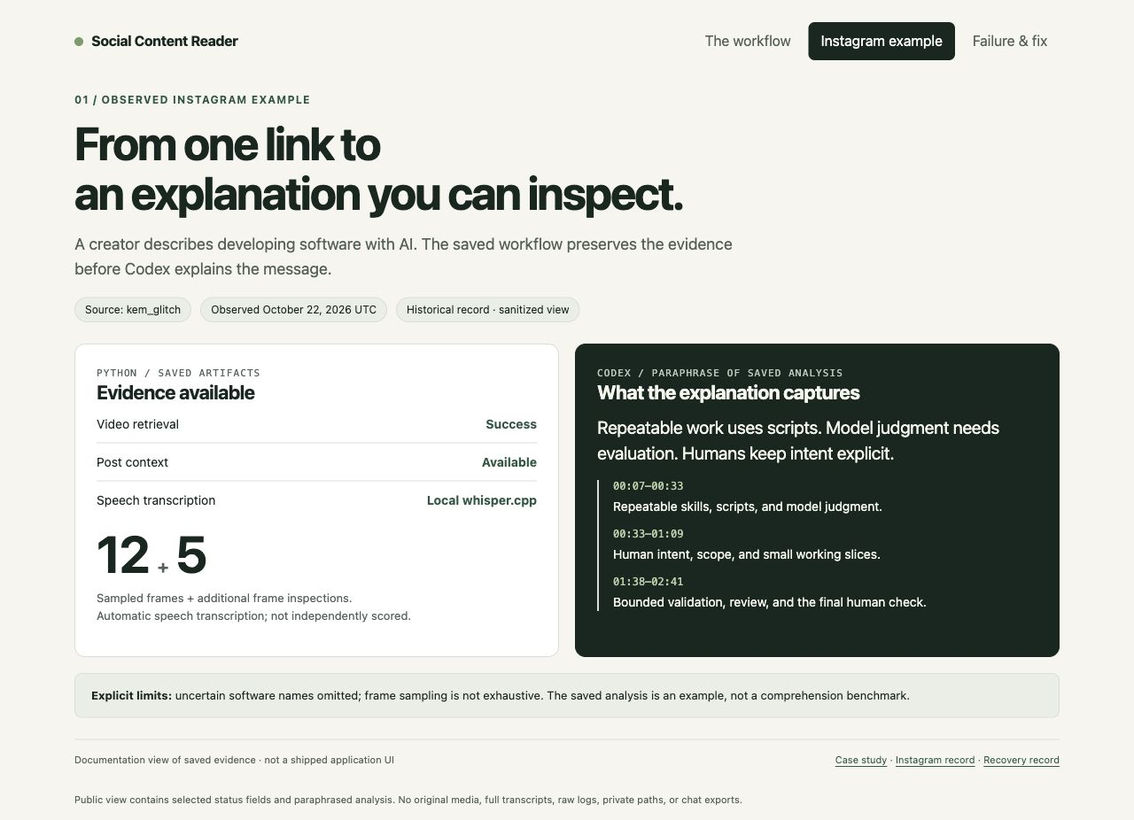
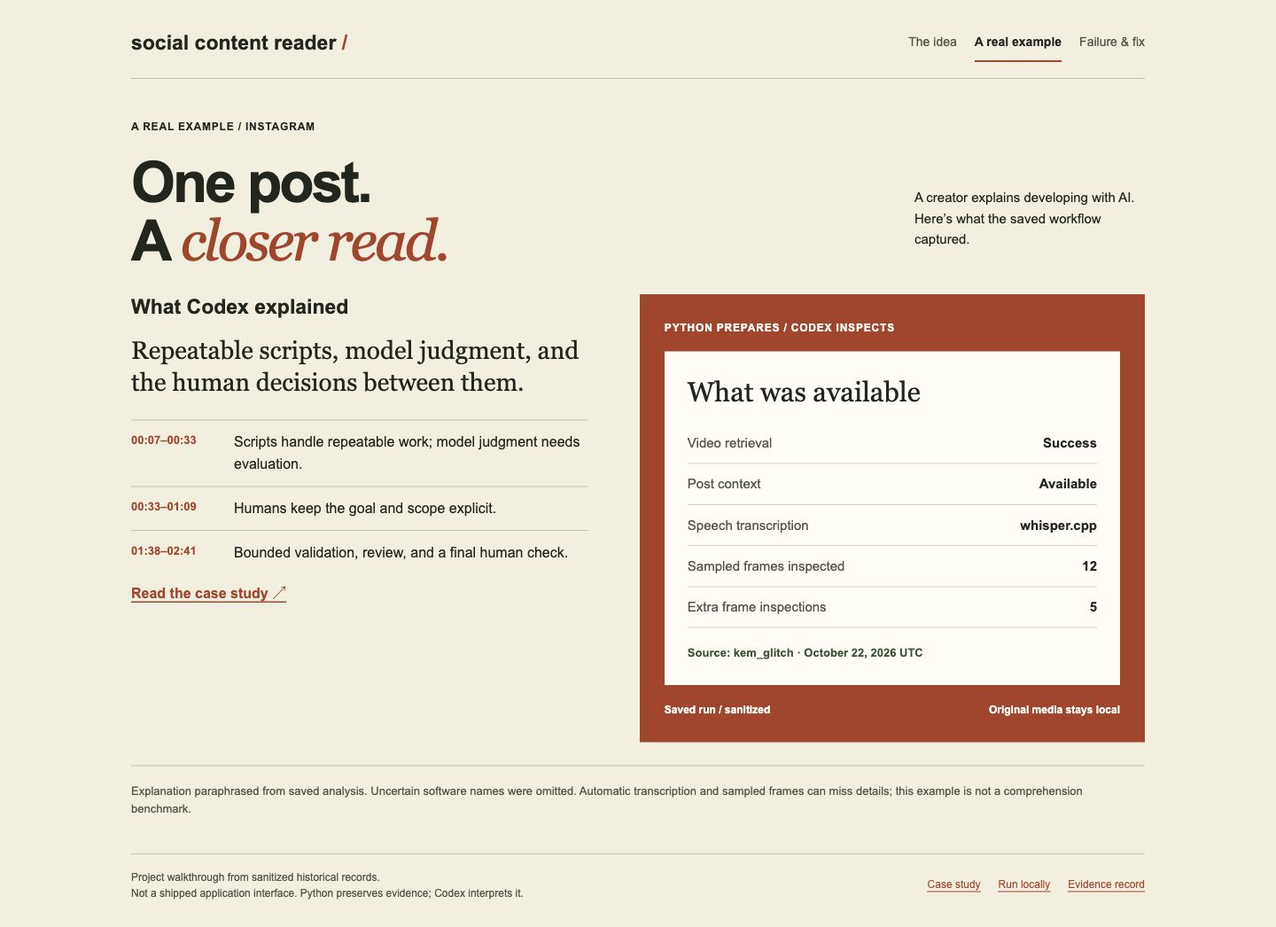
Refine portfolio presentation with Needle-inspired design

diff --git a/docs/walkthrough.html b/docs/walkthrough.html
@@ -3,60 +3,38 @@
 <meta charset="utf-8">
 <meta name="viewport" content="width=device-width,initial-scale=1">
 <meta name="referrer" content="no-referrer">
-<title>Social Content Reader · Evidence walkthrough</title>
+<title>Social Content Reader · A closer read</title>
 <style>
-:root{color-scheme:light;--ink:#172620;--muted:#536159;--paper:#f6f5ef;--green:#285844;--line:#d8dfd5;--pale:#e9eee6;--gold:#fff0ce}
-*{box-sizing:border-box}body{margin:0;background:var(--paper);color:var(--ink);font:16px/1.55 ui-sans-serif,system-ui,-apple-system,BlinkMacSystemFont,"Segoe UI",sans-serif}a{color:var(--green);text-underline-offset:3px}button{font:inherit}header{max-width:1176px;margin:auto;padding:24px 32px 0;display:flex;align-items:center;justify-content:space-between;gap:16px}.brand{font-weight:750;font-size:16px;letter-spacing:-.4px}.dot{display:inline-block;width:10px;height:10px;background:#759c67;border-radius:50%;margin-right:9px}.label{font:11px/1.5 ui-monospace,monospace;text-transform:uppercase;letter-spacing:1.1px;color:var(--muted)}nav{display:flex;gap:6px}nav button{border:1px solid transparent;background:transparent;color:var(--muted);padding:8px 13px;border-radius:7px;cursor:pointer}nav button[aria-selected=true]{background:var(--ink);color:white}button:focus-visible,a:focus-visible{outline:3px solid #ba731e;outline-offset:3px}main{max-width:1176px;margin:auto;padding:35px 32px 28px}.eyebrow{font-size:12px;font-weight:700;letter-spacing:1.2px;text-transform:uppercase;color:var(--green)}h1{font-size:clamp(32px,4.4vw,52px);line-height:1.08;letter-spacing:-2px;margin:12px 0 16px;max-width:850px}h2{font-size:22px;line-height:1.2;letter-spacing:-.6px;margin:0 0 12px}h3{font-size:16px;margin:0 0 8px}p{margin:0 0 12px}.lead{font-size:18px;color:var(--muted);max-width:750px;line-height:1.55}.context{display:flex;gap:10px;flex-wrap:wrap;margin:18px 0 24px}.pill{background:var(--pale);border:1px solid var(--line);border-radius:20px;padding:4px 11px;font-size:12px}.grid{display:grid;grid-template-columns:1fr 1fr;gap:18px}.three{grid-template-columns:repeat(3,1fr)}.card{background:white;border:1px solid var(--line);border-radius:12px;padding:24px;min-width:0}.dark{background:var(--ink);color:#f4f7ed;border-color:var(--ink)}.dark .label,.dark .muted{color:#b8c9bc}.step{display:inline-grid;place-items:center;width:29px;height:29px;border:1px solid var(--line);border-radius:50%;font-size:12px;font-weight:700;margin-bottom:17px}.rows{margin:12px 0 0}.row{display:flex;justify-content:space-between;gap:16px;border-top:1px solid var(--line);padding:10px 0;font-size:14px}.row:first-child{padding-top:0;border:0}.ok{color:#285844;font-weight:700}.muted{color:var(--muted)}.metric{font-size:58px;line-height:1.1;font-weight:650;letter-spacing:-2px;margin:8px 0}.caption{font-size:13px;color:var(--muted)}.note{background:var(--pale);border:1px solid var(--line);border-radius:8px;padding:14px 18px;font-size:13px;margin-top:18px}.warn{background:var(--gold);border-color:#e9d3a5}.quote{font-size:20px;line-height:1.45;letter-spacing:-.25px}.timestamp{font:12px ui-monospace,monospace;display:block;color:var(--green);margin-bottom:5px}.dark .timestamp{color:#b6d2a9}.timeline{margin-top:16px;padding-left:16px;border-left:2px solid var(--line)}.timeline p{font-size:14px;margin:0 0 13px}.code{font:12px/1.7 ui-monospace,monospace;white-space:pre-wrap;overflow-wrap:anywhere;padding:15px;background:#edf0eb;border-radius:7px;margin:12px 0}.dark .code{background:#293b30;color:#dfeddc}footer{display:flex;justify-content:space-between;gap:16px;border-top:1px solid var(--line);margin-top:24px;padding-top:14px;font-size:11px;color:var(--muted)}section[hidden]{display:none}.arrow{font-size:20px;color:var(--muted)}.small{font-size:13px}.screen-note{max-width:1176px;padding:0 32px 16px;margin:auto;font-size:11px;color:var(--muted)}
-@media(max-width:700px){header{padding:18px 20px 0;align-items:flex-start;flex-direction:column}main{padding:24px 20px}.grid,.three{grid-template-columns:1fr}nav{width:100%;justify-content:space-between}nav button{padding:7px 10px;font-size:14px}h1{letter-spacing:-1px}.card{padding:20px}.metric{font-size:46px}footer{flex-direction:column;gap:5px}.screen-note{padding:0 20px 16px}}
+:root{color-scheme:light;--ink:#22251e;--muted:#53564a;--paper:#f3efdf;--green:#ad3f23;--line:#c2bfad;--pale:#e9e2ce;--gold:#f3e2bc;--white:#fffdf4}
+*{box-sizing:border-box}body{margin:0;background:var(--paper);color:var(--ink);font:16px/1.55 Arial,Helvetica,sans-serif}a{color:var(--green);text-underline-offset:4px}a:visited{color:#705239}a:hover{text-decoration-thickness:2px}button{font:inherit;cursor:pointer}button:focus-visible,a:focus-visible{outline:3px solid #7d2b18;outline-offset:5px}::selection{background:var(--green);color:var(--white)}header,main,footer{width:min(1144px,88vw);margin-inline:auto}header{padding:26px 0 18px;border-bottom:1px solid var(--line);display:flex;align-items:center;justify-content:space-between;gap:24px}.brand{font-size:23px;font-weight:800;line-height:1.1}.brand span{color:var(--green)}nav{display:flex;gap:20px}nav button{min-height:44px;padding:6px 0;border:0;border-bottom:2px solid transparent;background:transparent;color:var(--muted);font-size:14px}nav button:hover{color:var(--green)}nav button[aria-selected=true]{border-bottom-color:var(--green);color:var(--ink);font-weight:700}main{padding:44px 0 24px}section[hidden]{display:none}.eyebrow{font-size:12px;letter-spacing:.8px;text-transform:uppercase;font-weight:700;margin:0 0 22px}h1{font-size:clamp(42px,5.6vw,76px);line-height:1.02;letter-spacing:-2.8px;margin:0 0 24px;text-wrap:balance;font-weight:750}h1 em{font-family:Georgia,"Times New Roman",serif;font-weight:400;color:var(--green)}h2{font-size:23px;line-height:1.25;margin:0 0 16px}h3{font-size:18px;margin:0 0 8px}p{margin:0 0 16px}.lead{font-size:19px;max-width:490px;line-height:1.55}.muted{color:var(--muted)}.composition{display:grid;grid-template-columns:1.1fr 1fr;align-items:center;gap:64px}.cta{display:inline-flex;align-items:center;justify-content:space-between;gap:24px;min-height:52px;padding:12px 20px;background:var(--ink);color:var(--paper);border:1px solid var(--ink);font-size:15px;font-weight:700}.cta:hover{background:#434737}.detail{font-size:13px;color:var(--muted);margin-top:14px}.folio{background:var(--green);padding:28px;color:var(--white);min-width:0}.folio .eyebrow{margin-bottom:18px}.receipt{background:var(--white);color:var(--ink);padding:26px}.receipt h2{font-family:Georgia,"Times New Roman",serif;font-size:31px;font-weight:400}.receipt dl{margin:0}.receipt dl>div{display:flex;gap:18px;justify-content:space-between;padding:11px 0;border-bottom:1px solid #d8d2c2;font-size:15px}.receipt dt{color:var(--muted)}.receipt dd{margin:0;text-align:right;font-weight:700}.stamp{margin:18px 0 0;font-size:13px;color:#355233;font-weight:700}.folio-end{display:flex;justify-content:space-between;gap:20px;font-size:12px;font-weight:700;margin-top:18px}.workflow{display:flex;gap:28px;margin-top:42px;padding-top:22px;border-top:1px solid var(--line)}.workflow p{margin:0;flex:1;font-size:15px}.workflow strong{display:block;font-size:16px;margin-bottom:4px}.owner{font-size:12px;color:var(--muted);display:block;margin-top:5px}.screen-title{display:flex;justify-content:space-between;align-items:baseline;gap:24px;margin-bottom:28px}.screen-title h1{font-size:clamp(38px,4.9vw,64px);margin-bottom:0}.screen-title .aside{max-width:260px;font-size:15px}.inspection{display:grid;grid-template-columns:.95fr 1.05fr;gap:58px;align-items:start}.insight{font-family:Georgia,"Times New Roman",serif;font-size:28px;line-height:1.3;margin-bottom:24px}.timeline{list-style:none;padding:0;margin:0}.timeline li{display:grid;grid-template-columns:102px 1fr;gap:14px;padding:12px 0;border-top:1px solid var(--line)}.timeline time{font-size:13px;font-variant-numeric:tabular-nums;color:var(--green);font-weight:700}.timeline p{font-size:16px;margin:0}.footnote{border-top:1px solid var(--line);padding-top:18px;margin-top:26px;font-size:13px;color:var(--muted)}.recovery{display:grid;grid-template-columns:1fr 1.3fr;gap:52px;align-items:start}.failure{border-top:2px solid var(--green);padding-top:16px}.status-code{font-family:Georgia,"Times New Roman",serif;font-size:56px;line-height:1;margin:8px 0 16px;color:var(--green)}.recovery .folio{margin-top:24px}.decision{font-family:Georgia,"Times New Roman",serif;font-size:29px;line-height:1.3}.decision-details{display:grid;grid-template-columns:1fr 1fr;gap:28px;border-top:1px solid var(--line);padding-top:20px;margin-top:26px}.decision-details p{font-size:15px}.nextlink{display:inline-block;min-height:44px;padding:9px 0;font-weight:700}footer{border-top:1px solid var(--line);padding:16px 0 22px;display:flex;justify-content:space-between;gap:24px;font-size:12px;color:var(--muted)}footer p{margin:0;max-width:600px}footer a{display:inline-block;min-height:44px;padding:8px 0}.footlinks{display:flex;gap:20px;flex-wrap:wrap}body{padding-bottom:env(safe-area-inset-bottom)}
+@media(max-width:850px){.composition,.inspection,.recovery{gap:32px}.screen-title{align-items:start;flex-direction:column;gap:14px}.screen-title .aside{max-width:500px}.brand{font-size:20px}nav{gap:14px}}
+@media(max-width:650px){header{align-items:start;flex-direction:column;gap:16px;padding-top:22px}.brand{font-size:24px}nav{width:100%;justify-content:space-between;gap:8px}nav button{font-size:13px}.composition,.inspection,.recovery{grid-template-columns:1fr;gap:30px}main{padding-top:30px}h1{font-size:49px;letter-spacing:-1.8px}.lead{font-size:18px}.eyebrow{margin-bottom:18px}.folio{padding:22px}.receipt{padding:22px}.workflow{display:block;margin-top:30px;padding-top:0}.workflow p{padding:18px 0;border-bottom:1px solid var(--line);font-size:16px}.workflow strong{display:inline;margin-right:8px}.owner{margin-top:7px}.screen-title h1{font-size:46px;letter-spacing:-1.6px}.timeline li{grid-template-columns:91px 1fr;gap:10px}.timeline time{font-size:12px}.decision{font-size:27px}.decision-details{grid-template-columns:1fr;gap:8px}.recovery .folio{margin-top:20px}.insight{font-size:27px}footer{flex-direction:column;gap:8px}.screen-title .aside{font-size:16px}.receipt dl>div{font-size:14px}.footnote{font-size:14px}.receipt h2{font-size:29px}}
+@media(prefers-reduced-motion:no-preference){.folio{animation:arrive .4s ease-out}@keyframes arrive{from{transform:translateY(7px);opacity:.8}to{transform:translateY(0);opacity:1}}}
 </style>
-<header><div class="brand"><span class="dot"></span>Social Content Reader</div><nav role="tablist" aria-label="Walkthrough views"><button id="tab-overview" role="tab" aria-controls="overview" aria-selected="true">The workflow</button><button id="tab-instagram" role="tab" aria-controls="instagram" aria-selected="false">Instagram example</button><button id="tab-youtube" role="tab" aria-controls="youtube" aria-selected="false">Failure &amp; fix</button></nav></header>
+<header><div class="brand">social content reader<span aria-hidden="true"> /</span></div><nav role="tablist" aria-label="Project walkthrough"><button id="tab-overview" role="tab" aria-controls="overview" aria-selected="true">The idea</button><button id="tab-instagram" role="tab" aria-controls="instagram" aria-selected="false" tabindex="-1">A real example</button><button id="tab-youtube" role="tab" aria-controls="youtube" aria-selected="false" tabindex="-1">Failure &amp; fix</button></nav></header>
 <main>
 <section id="overview" role="tabpanel" aria-labelledby="tab-overview">
-<div class="eyebrow">Personal project / evidence-first explanations</div>
-<h1>A useful explanation starts<br>with inspectable evidence.</h1>
-<p class="lead">Python gathers and preserves the source material. Codex reads it, inspects the visuals, and explains what it can actually support.</p>
-<div class="context"><span class="pill">Local CLI + agent workflow</span><span class="pill">Existing runs · October 2026</span><span class="pill">No hosted service</span></div>
-<div class="grid three">
-<article class="card"><span class="step">01</span><h2>Collect</h2><p class="muted">Retrieve accessible media and context. Extract frames and audio; use subtitles or local ASR.</p><div class="label">Python + media tools</div></article>
-<article class="card"><span class="step">02</span><h2>Preserve</h2><p class="muted">Save statuses, timestamps, and artifact hashes. Reuse cached evidence and retain prior attempts.</p><div class="label">Python + local cache</div></article>
-<article class="card dark"><span class="step">03</span><h2>Interpret</h2><p class="muted">Read speech and post text. Inspect visuals. Explain the content and identify uncertainty.</p><div class="label">Codex + host tools</div></article>
-</div>
-<div class="note"><strong>The boundary matters.</strong> A successful download is not proof of understanding. The Python helper does not summarize posts or perform visual understanding.</div>
+<div class="composition"><div><p class="eyebrow">A closer read of social media</p><h1>Read the post.<br>Check the <em>evidence.</em></h1><p class="lead">A social link, the source material, and an explanation you can check against it.</p><button class="cta" data-view="instagram">See one real example <span aria-hidden="true">↗</span></button><p class="detail">Personal project · Python + Codex · Runs locally</p></div>
+<aside class="folio" aria-label="Selected fields from the saved Instagram example"><p class="eyebrow">Inside one saved run</p><div class="receipt"><h2>Evidence, before explanation.</h2><dl><div><dt>Source</dt><dd>Instagram / kem_glitch</dd></div><div><dt>Video + post context</dt><dd>Available</dd></div><div><dt>Speech</dt><dd>Local transcription</dd></div><div><dt>Visual inspection</dt><dd>12 frames + 5 extra</dd></div></dl><p class="stamp">Codex inspection and explanation recorded.</p></div><div class="folio-end"><span>Selected evidence fields</span><span>October 2026</span></div></aside></div>
+<div class="workflow"><p><strong>Collect.</strong> Python retrieves accessible media, speech, and context.<span class="owner">PYTHON + MEDIA TOOLS</span></p><p><strong>Preserve.</strong> Save timestamped artifacts, statuses, and hashes.<span class="owner">PYTHON + LOCAL CACHE</span></p><p><strong>Interpret.</strong> Codex reads, inspects, and explains what it can support.<span class="owner">CODEX + HOST TOOLS</span></p></div>
 </section>
 <section id="instagram" role="tabpanel" aria-labelledby="tab-instagram" hidden>
-<div class="eyebrow">01 / Observed Instagram example</div>
-<h1>From one link to<br>an explanation you can inspect.</h1>
-<p class="lead">A creator describes developing software with AI. The saved workflow preserves the evidence before Codex explains the message.</p>
-<div class="context"><span class="pill">Source: kem_glitch</span><span class="pill">Observed October 22, 2026 UTC</span><span class="pill">Historical record · sanitized view</span></div>
-<div class="grid">
-<article class="card"><div class="label">Python / saved artifacts</div><h2>Evidence available</h2><div class="rows"><div class="row"><span>Video retrieval</span><span class="ok">Success</span></div><div class="row"><span>Post context</span><span class="ok">Available</span></div><div class="row"><span>Speech transcription</span><span class="ok">Local whisper.cpp</span></div></div><div class="metric">12 <span class="arrow">+</span> 5</div><p class="caption">Sampled frames + additional frame inspections.<br>Automatic speech transcription; not independently scored.</p></article>
-<article class="card dark"><div class="label">Codex / paraphrase of saved analysis</div><h2>What the explanation captures</h2><p class="quote">Repeatable work uses scripts. Model judgment needs evaluation. Humans keep intent explicit.</p><div class="timeline"><p><span class="timestamp">00:07–00:33</span>Repeatable skills, scripts, and model judgment.</p><p><span class="timestamp">00:33–01:09</span>Human intent, scope, and small working slices.</p><p><span class="timestamp">01:38–02:41</span>Bounded validation, review, and the final human check.</p></div></article>
-</div>
-<div class="note"><strong>Explicit limits:</strong> uncertain software names omitted; frame sampling is not exhaustive. The saved analysis is an example, not a comprehension benchmark.</div>
+<p class="eyebrow">A real example / Instagram</p><div class="screen-title"><h1>One post.<br>A <em>closer read.</em></h1><p class="aside">A creator explains developing with AI. Here’s what the saved workflow captured.</p></div>
+<div class="inspection"><div><h2>What Codex explained</h2><p class="insight">Repeatable scripts, model judgment, and the human decisions between them.</p><ol class="timeline"><li><time>00:07–00:33</time><p>Scripts handle repeatable work; model judgment needs evaluation.</p></li><li><time>00:33–01:09</time><p>Humans keep the goal and scope explicit.</p></li><li><time>01:38–02:41</time><p>Bounded validation, review, and a final human check.</p></li></ol><a class="nextlink" href="case-study.md#instagram-demonstration">Read the case study ↗</a></div>
+<aside class="folio"><p class="eyebrow">Python prepares / Codex inspects</p><div class="receipt"><h2>What was available</h2><dl><div><dt>Video retrieval</dt><dd>Success</dd></div><div><dt>Post context</dt><dd>Available</dd></div><div><dt>Speech transcription</dt><dd>whisper.cpp</dd></div><div><dt>Sampled frames inspected</dt><dd>12</dd></div><div><dt>Extra frame inspections</dt><dd>5</dd></div></dl><p class="stamp">Source: kem_glitch · October 22, 2026 UTC</p></div><div class="folio-end"><span>Saved run / sanitized</span><span>Original media stays local</span></div></aside></div>
+<p class="footnote">Explanation paraphrased from saved analysis. Uncertain software names were omitted. Automatic transcription and sampled frames can miss details; this example is not a comprehension benchmark.</p>
 </section>
 <section id="youtube" role="tabpanel" aria-labelledby="tab-youtube" hidden>
-<div class="eyebrow">02 / Engineering judgment</div>
-<h1>Keep useful evidence.<br>Keep the failure visible.</h1>
-<p class="lead">A subtitle request failed with HTTP 429. The response was a bounded collector change, followed by a documented live retry.</p>
-<div class="context"><span class="pill">Source: jawed · Me at the zoo</span><span class="pill">Historical before / after</span><span class="pill">One recovery example</span></div>
-<div class="grid three">
-<article class="card"><div class="label">Before / recorded attempt</div><h2>Subtitle failure</h2><div class="code">HTTP 429
-Retrieval: failed
-Local frames: 0</div><p class="small muted">Some captions and browser visuals were accessible. No local video or sampled frames from this attempt.</p></article>
-<article class="card"><div class="label">Decision / collector + reader</div><h2>Preserve partial work</h2><p class="small muted">Continue downloader errors. Keep usable media. Preserve partial status when errors remain.</p><p class="small muted">Narrow subtitle requests; use optional local ASR if subtitles are unavailable.</p><div class="note warn small">Error survival must not turn incomplete evidence into “success.”</div></article>
-<article class="card dark"><div class="label">After / recorded live retry</div><h2>Evidence recovered</h2><div class="code">Retrieval: success
-Speech: subtitles
-Audio: success
-Frames: 12 / 12</div><p class="small muted">A fresh chat reused the cache, read subtitles, and inspected all 12 frames.</p></article>
-</div>
-<div class="note"><strong>Separate checks:</strong> the live retry shows recovery on one example. A simulated regression test checks that media survives a subtitle error and remains labeled partial. Neither proves universal platform reliability.</div>
+<p class="eyebrow">Engineering judgment / YouTube</p><div class="screen-title"><h1>Something failed.<br>We kept the <em>evidence.</em></h1><p class="aside">Me at the zoo, by jawed.<br>A recorded failure, a bounded change, and a successful retry.</p></div>
+<div class="recovery"><div><div class="failure"><h2>The first attempt</h2><p class="status-code">HTTP 429</p><p>Subtitle retrieval failed. No local video or sampled frames were saved. Some captions and browser visuals were still accessible.</p></div><aside class="folio"><p class="eyebrow">Later live retry</p><div class="receipt"><dl><div><dt>Video retrieval</dt><dd>Success</dd></div><div><dt>Speech</dt><dd>English subtitles</dd></div><div><dt>Audio</dt><dd>Available</dd></div><div><dt>Frames saved + inspected</dt><dd>12 / 12</dd></div></dl></div></aside></div>
+<div><h2>The decision</h2><p class="decision">A subtitle error shouldn’t discard usable media. But partial evidence must stay labeled partial.</p><p>Continue downloader errors, check what was actually saved, and preserve the error status. Narrow subtitle requests; allow local speech transcription when subtitles are unavailable.</p><div class="decision-details"><div><h3>Observed recovery</h3><p>A later live retry saved the media. A fresh chat reused the cache and inspected all 12 frames.</p></div><div><h3>Regression check</h3><p>A simulated subtitle failure confirms usable media survives and remains marked partial.</p></div></div><a class="nextlink" href="case-study.md#youtube-failure-and-recovery">Read the engineering story ↗</a></div></div>
+<p class="footnote">One live recovery example and a separate simulated regression test. These do not establish platform-wide reliability or show that every fallback branch ran.</p>
 </section>
-<footer><span>Documentation view of saved evidence · not a shipped application UI</span><span><a href="case-study.md">Case study</a> · <a href="examples/instagram-demo.json">Instagram record</a> · <a href="examples/youtube-recovery.json">Recovery record</a></span></footer>
 </main>
-<div class="screen-note">Public view contains selected status fields and paraphrased analysis. No original media, full transcripts, raw logs, private paths, or chat exports.</div>
+<footer><p>Project walkthrough from sanitized historical records.<br>Not a shipped application interface. Python preserves evidence; Codex interprets it.</p><div class="footlinks"><a href="case-study.md">Case study</a><a href="setup.md">Run locally</a><a href="examples/instagram-demo.json">Evidence record</a></div></footer>
 <script>
 const buttons=[...document.querySelectorAll('[role=tab]')];
-function show(id){if(!['overview','instagram','youtube'].includes(id))id='overview';buttons.forEach(b=>b.setAttribute('aria-selected',String(b.id==='tab-'+id)));document.querySelectorAll('[role=tabpanel]').forEach(p=>p.hidden=p.id!==id);history.replaceState(null,'','#'+id)}
-buttons.forEach((b,i)=>{b.addEventListener('click',()=>show(b.getAttribute('aria-controls')));b.addEventListener('keydown',e=>{let n=i;if(e.key==='ArrowRight')n=(i+1)%buttons.length;else if(e.key==='ArrowLeft')n=(i+buttons.length-1)%buttons.length;else if(e.key==='Home')n=0;else if(e.key==='End')n=buttons.length-1;else return;e.preventDefault();buttons[n].focus();show(buttons[n].getAttribute('aria-controls'))})});show(location.hash.slice(1));
+function show(id){if(!['overview','instagram','youtube'].includes(id))id='overview';buttons.forEach(b=>{const selected=b.id==='tab-'+id;b.setAttribute('aria-selected',String(selected));b.tabIndex=selected?0:-1});document.querySelectorAll('[role=tabpanel]').forEach(p=>p.hidden=p.id!==id);history.replaceState(null,'','#'+id)}
+buttons.forEach((b,i)=>{b.addEventListener('click',()=>show(b.getAttribute('aria-controls')));b.addEventListener('keydown',e=>{let n=i;if(e.key==='ArrowRight')n=(i+1)%buttons.length;else if(e.key==='ArrowLeft')n=(i+buttons.length-1)%buttons.length;else if(e.key==='Home')n=0;else if(e.key==='End')n=buttons.length-1;else return;e.preventDefault();buttons[n].focus();show(buttons[n].getAttribute('aria-controls'))})});document.querySelector('[data-view]').addEventListener('click',()=>{show('instagram');document.getElementById('tab-instagram').focus()});window.addEventListener('hashchange',()=>show(location.hash.slice(1)));show(location.hash.slice(1));
 </script>
 </html>

diff --git a/README.md b/README.md
@@ -1,89 +1,63 @@
 # Social Content Reader
 
-An evidence-first workflow for explaining social posts without treating a download—or a plausible answer—as proof of understanding.
+A local Python + Codex workflow for explaining social posts from saved source evidence.
+
+![Read the post. Check the evidence. A saved Instagram example and the collection-to-interpretation workflow.](docs/images/workflow.jpg)
+
+**[See a real example →](docs/case-study.md#instagram-demonstration)** · [Run locally](docs/setup.md) · [Browse the code](content_eval/reader.py)
+
+## Why it exists
+
+A title misses the speech. A transcript misses the visuals. A plausible summary can miss both. This project keeps the accessible source material, the explanation, and the missing pieces distinguishable.
 
 **Python gathers and preserves evidence. Codex interprets it.**
 
-Personal project by César Reverón, developed with Codex assistance. Local CLI and agent workflow; not a hosted service. The examples below demonstrate specific runs, not general accuracy or platform reliability.
+| Python prepares | Codex interprets |
+| --- | --- |
+| Retrieve accessible video and post context | Read speech and post text |
+| Extract timestamped frames and subtitles or local transcription | Inspect frames and use host browser tools for missing context |
+| Preserve statuses, hashes, and previous attempts | Explain the content and identify uncertainty |
 
-![Instagram demonstration: collected evidence, inspection coverage, and explanation](docs/images/instagram-demo.jpg)
+The Python command produces evidence, not a summary. Codex and its image/browser tools come from the host. Cloning this repository does not install automatic assistant activation.
 
-[Instagram walkthrough](docs/case-study.md#instagram-demonstration) · [Engineering decision](docs/case-study.md#youtube-failure-and-recovery) · [Setup](docs/setup.md) · [Verification](docs/verification.md)
+## One post, inspected
 
-## Why I built it
+An Instagram creator explains developing software with AI. The saved run contains video, post context, a local transcript, and **12 sampled frames plus five additional frame inspections**. Codex's saved explanation uses timestamps and leaves uncertain software names unresolved.
 
-I wanted to share a social post with an assistant and get an explanation grounded in what the post actually contains. A title, a transcript, or a few frames can each omit important context. This project keeps those evidence sources—and their gaps—visible.
+![Instagram evidence and a paraphrase of the saved explanation.](docs/images/instagram-demo.jpg)
 
-## What happens to a link
+[Read the walkthrough](docs/case-study.md#instagram-demonstration) · [Inspect the sanitized record](docs/examples/instagram-demo.json) · [Original post by kem_glitch](https://www.instagram.com/p/DemLMidtxxj/)
 
-1. **Python prepares evidence:** canonicalizes the URL, retrieves accessible media and post context, extracts timestamped frames and audio, and uses subtitles or local speech transcription.
-2. **Python preserves the run:** records statuses, tool output, and artifact hashes. Repeated links reuse verified cached evidence; refreshes preserve previous attempts.
-3. **Codex interprets:** reads the text, visually inspects frames, uses browser tools when needed, and explains the content while identifying uncertainty.
+## A failure worth showing
 
-The Python command does **not** summarize posts, perform visual understanding, or independently check factual claims. Codex and its browser/image tools are supplied by the host, not this Python package. No model API is bundled.
+A YouTube subtitle request hit **HTTP 429**. The first attempt saved no local video or frames. The collector was changed to preserve usable media while keeping remaining errors labeled partial; the reader narrowed subtitle requests and supports local transcription when needed.
 
-## Demonstrated example: Instagram
+A later live retry saved video, English subtitles, audio, and 12 frames. A separate simulated regression test checks that a subtitle error does not discard usable media or mislabel it complete.
 
-A saved run examined a creator's explanation of developing software with AI. It collected the video and post context, produced a local transcript, and supported a timestamped explanation. Saved inspection notes record **12 sampled frames plus five additional frames** around details that needed closer inspection.
+![YouTube subtitle failure, the collector decision, and observed recovery.](docs/images/youtube-recovery.jpg)
 
-The explanation distinguishes repeatable scripts from model judgment, describes the creator's approach to human intent and validation, and leaves uncertain software names unresolved. Speech transcription and sampled visuals are fallible; this is an observed example, not a scored comprehension benchmark.
-
-[Read the case study](docs/case-study.md) · [Inspect the sanitized example](docs/examples/instagram-demo.json) · [Original post by kem_glitch](https://www.instagram.com/p/DemLMidtxxj/)
-
-## Engineering decision: survive subtitle failure
-
-![YouTube recovery: failed subtitle retrieval, bounded change, successful retry](docs/images/youtube-recovery.jpg)
-
-A YouTube attempt hit **HTTP 429 during subtitle retrieval**, leaving no local video or sampled frames. The collector was changed to continue past downloader errors while preserving a partial status when errors remain. The reader narrows subtitle requests and can use local speech transcription when subtitles are unavailable. A later live retry saved video, English subtitles, audio, and 12 frames; a fresh chat reused the cache.
-
-The live retry demonstrates recovery on that example. A separate regression test simulates a subtitle error with usable media and checks that it remains available **and labeled partial**. These are different kinds of evidence.
-
-[Decision and tradeoffs](docs/case-study.md#youtube-failure-and-recovery) · [Sanitized recovery record](docs/examples/youtube-recovery.json) · [Regression test](tests/test_reader.py)
+[Read the engineering story](docs/case-study.md#youtube-failure-and-recovery) · [Recovery record](docs/examples/youtube-recovery.json) · [Regression tests](tests/test_reader.py)
 
 ## Run locally
 
-Use Python 3.11+ for the documented media setup. The core package has no third-party Python runtime dependencies; live retrieval and optional speech transcription require external tools.
+Use Python 3.11+ for the media setup. The core package has no third-party Python runtime dependencies.
 
 ```sh
 python3 -m venv .venv
 source .venv/bin/activate
 python -m pip install -e .
-python -m content_eval --help
 python -m content_eval.reader --help
 python -m unittest discover -s tests -v
 ```
 
-For a real link, install the [media dependencies](docs/setup.md), then:
+Live retrieval requires media tools; speech fallback also requires local model weights. **[Follow the setup guide](docs/setup.md)** before running a link. The separate [batch evaluation workflow](docs/batch-workflow.md) supports human-reviewed references and auditable scoring; no model API is bundled.
 
-```sh
-python -m content_eval.reader 'https://www.instagram.com/p/DemLMidtxxj/'
-```
+## Status, contribution, and boundaries
 
-This produces evidence and an index, not an explanation. Read the saved text and inspect the frames with your assistant. The original author's local automatic Codex activation is not installed by cloning this repository.
+Personal project by César Reverón, developed with Codex assistance. The [verification record](docs/verification.md) documents **20 passing tests**, including real FFmpeg extraction/cache reuse, and a fresh-environment installation check.
 
-The separate [batch evaluation workflow](docs/batch-workflow.md) supports human-reviewed references, frozen scoring rules, and auditable results. It imports answers and scores produced separately; it does not call a model or automatically establish ground truth.
+These are specific observed examples, not a cross-platform accuracy or reliability benchmark. Platform restrictions, transcription errors, and sparse frame sampling remain limitations. The public package does not include the original local Codex skill installation.
 
-## Scope and limits
+The screenshots are a designed walkthrough of sanitized saved records, not a shipped app UI. Raw media, full transcripts, logs, chats, credentials, and local configuration remain private. [Publication boundaries](docs/publication.md).
 
-- Login walls, rate limits, deleted posts, and adapter failures can prevent access. X routing exists; no successful X example is claimed here.
-- Sparse frame sampling can miss events. Automatic captions and speech transcription can be wrong.
-- Collection status and explanation quality are separate. No cross-platform accuracy, customer adoption, or performance claims.
-- Local caches can contain third-party media, post text, URLs, and diagnostic data. They are excluded from this repository.
-
-## Visual walkthrough
-
-The three-view [documentation walkthrough](docs/walkthrough.html) is included with no external assets or tracking. To view it locally:
-
-```sh
-python3 -m http.server 8000 --bind 127.0.0.1
-```
-
-Open `http://127.0.0.1:8000/docs/walkthrough.html`. GitHub displays the screenshots above; the HTML file is a local preview, not a hosted app.
-
-![Collection, preservation, and interpretation boundaries](docs/images/workflow.jpg)
-
-## What is public
-
-Only reviewed source, tests, portable instructions, sanitized example summaries, and screenshots of those summaries. Screenshots are labeled documentation views of saved records—not a shipped application UI or a new live run. Raw recordings, frames, full transcripts, chat exports, local configuration, and model weights remain private. Source posts are linked and credited; their media is not redistributed.
-
-See [publication boundaries](docs/publication.md) and [verification results](docs/verification.md).
+The [HTML walkthrough](docs/walkthrough.html) is also included for local viewing: run `python3 -m http.server 8000 --bind 127.0.0.1` from this repository, then open `http://127.0.0.1:8000/docs/walkthrough.html`.

diff --git a/docs/verification.md b/docs/verification.md
@@ -32,3 +32,9 @@ For the installed-package check, the tests ran from outside the source tree in a
 No fresh live Instagram/YouTube download, successful X retrieval, platform-wide reliability, end-user adoption, or general explanation accuracy is claimed. The case-study demonstrations reuse historical saved records. The original host's automatic skill activation is environment-specific and is not installed or re-tested by this public package.
 
 Public examples omit original media and full transcripts, so an external reader cannot independently reproduce every historical observation from repository files alone. Original source posts are linked and may be subject to access restrictions.
+
+## Presentation revision
+
+The README and walkthrough were revised using adapted [gstack design-review guidance](https://github.com/garrytan/gstack/tree/main/design-review) and the owner's preferred Needle comparison as a visual reference. This is a source-guided design pass, not execution of the native gstack runtime. The toolkit, original comparison files, and private design notes are not part of this repository.
+
+The revised presentation uses one clear primary action, warmer colors, stronger type hierarchy, and fewer decorative containers. All three views were checked at 375, 768, and 1440 CSS pixels without horizontal overflow. Navigation targets meet a 44-pixel minimum; the primary action and arrow-key tab navigation were exercised in the browser. Screenshot contents remain sanitized historical summaries. Python source and tests were unchanged by this presentation-only revision.
